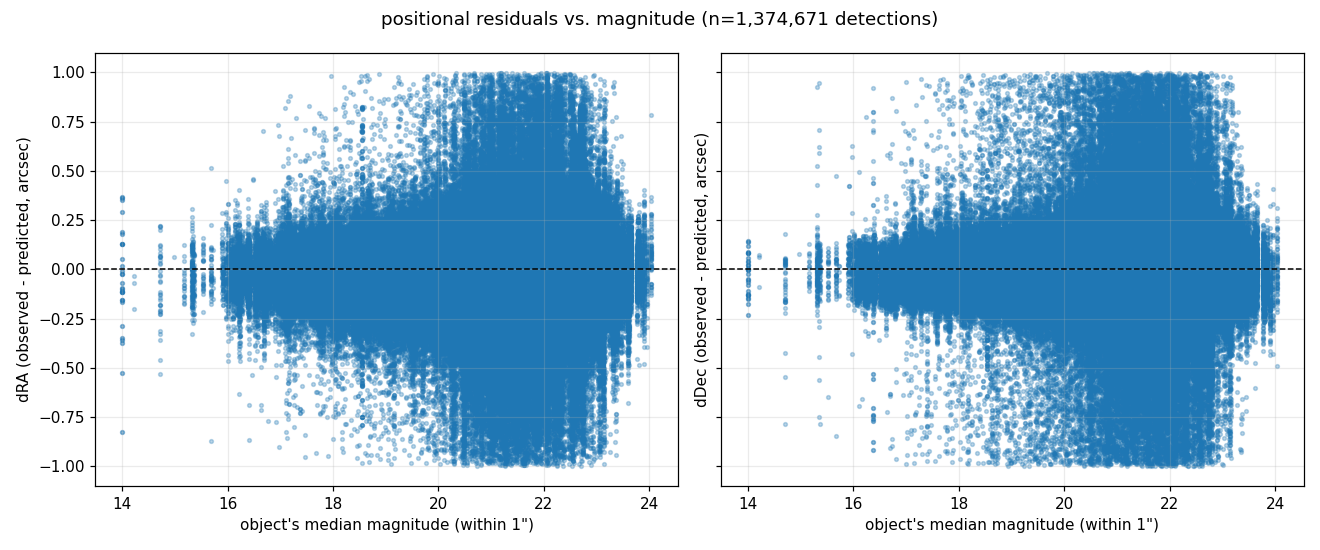
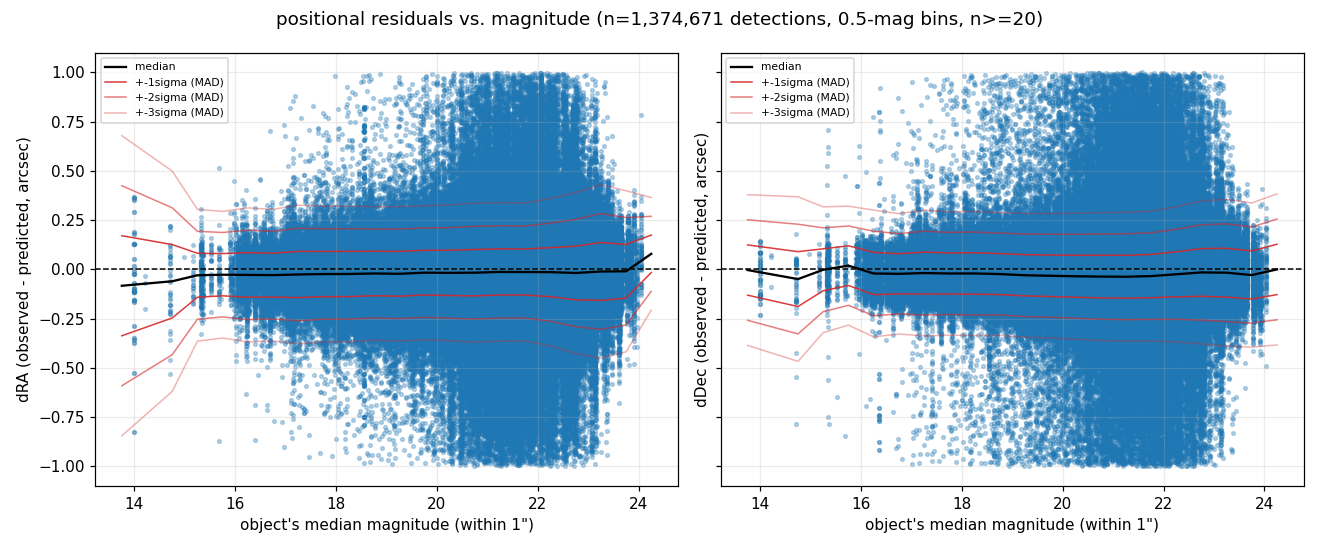
Overlay binned median and +-1/2/3 MAD-sigma on the residuals-vs-magnitude plot
Fixed-width (0.5 mag) bins over each object's own median magnitude, dropping
bins under 20 detections; per bin, the median and a robust sigma (MAD *
1.4826) of dRA/dDec. Adds crossmatch/uncertainty.bin_residuals_by_magnitude
and wires --bin-width/--min-n into `plot position-residuals-vs-mag`.

diff --git a/src/deep_asteroids/viz/plots.py b/src/deep_asteroids/viz/plots.py
@@ -206,22 +206,36 @@ def plot_position_residuals_hist(rows, path, range_arcsec=2.0, bin_width_arcsec=
     return _save(fig, path)
 
 
-def plot_position_residuals_vs_mag(rows, path, median_mag_by_object):
+def plot_position_residuals_vs_mag(rows, path, median_mag_by_object, bin_width=0.5, min_n=20):
     """``dra_arcsec``/``ddec_arcsec`` of every detection against its object's median magnitude
     (``median_mag_by_object``, from ``uncertainty.median_mag_by_object``); detections of an
-    object with no magnitude are left out (#46)."""
+    object with no magnitude are left out (#46). Overlaid with each magnitude bin's median and
+    +-1/2/3 robust sigma (``uncertainty.bin_residuals_by_magnitude``)."""
+    from deep_asteroids.crossmatch.uncertainty import bin_residuals_by_magnitude
+
     plt = _plt()
     pts = [(median_mag_by_object[r.known_tracklet_id], r.dra_arcsec, r.ddec_arcsec)
            for r in rows if r.known_tracklet_id in median_mag_by_object]
     if not pts:
         raise ValueError("no position residuals with a magnitude to plot")
     mag, dra, ddec = (np.array(v) for v in zip(*pts))
+    bins = bin_residuals_by_magnitude(rows, median_mag_by_object, bin_width, min_n)
+    centres = np.array([(b[0] + b[1]) / 2 for b in bins])
     fig, (ax_ra, ax_dec) = plt.subplots(1, 2, figsize=(12, 5), sharex=True, sharey=True)
-    for ax, values, label in ((ax_ra, dra, "dRA"), (ax_dec, ddec, "dDec")):
+    for ax, values, label, med_col, sigma_col in (
+            (ax_ra, dra, "dRA", 3, 4), (ax_dec, ddec, "dDec", 5, 6)):
         ax.scatter(mag, values, s=6, alpha=0.3, color="tab:blue")
         ax.axhline(0.0, color="k", ls="--", lw=1)
+        if len(bins):
+            median = np.array([b[med_col] for b in bins])
+            sigma = np.array([b[sigma_col] for b in bins])
+            ax.plot(centres, median, color="k", lw=1.5, label="median")
+            for k, alpha in ((1, 0.9), (2, 0.6), (3, 0.35)):
+                ax.plot(centres, median + k * sigma, color="tab:red", lw=1, alpha=alpha, label=f"+-{k}sigma (MAD)")
+                ax.plot(centres, median - k * sigma, color="tab:red", lw=1, alpha=alpha)
+            ax.legend(fontsize=7, loc="upper left")
         ax.set_xlabel("object's median magnitude (within 1\")")
         ax.set_ylabel(f"{label} (observed - predicted, arcsec)")
         ax.grid(alpha=0.25)
-    fig.suptitle(f"positional residuals vs. magnitude (n={len(pts):,} detections)")
+    fig.suptitle(f"positional residuals vs. magnitude (n={len(pts):,} detections, {bin_width:g}-mag bins, n>={min_n})")
     return _save(fig, path)

diff --git a/src/deep_asteroids/cli/plot.py b/src/deep_asteroids/cli/plot.py
@@ -188,6 +188,10 @@ def position_residuals_cmd(ctx, out, range_arcsec, bin_width_arcsec, match_radiu
 
 @plot.command("position-residuals-vs-mag")
 @click.option("--out", required=True, type=click.Path(dir_okay=False), help="PNG to write")
+@click.option("--bin-width", type=float, default=0.5, show_default=True,
+              help="Magnitude bin width for the overlaid median/sigma lines")
+@click.option("--min-n", type=int, default=20, show_default=True,
+              help="A magnitude bin needs at least this many detections to get a median/sigma line")
 @click.option("--match-radius-arcsec", type=float, default=2.0, show_default=True,
               help="A result is matched to a numbered known object below this mean separation")
 @click.option("--detection-radius-arcsec", type=float, default=1.0, show_default=True,
@@ -197,17 +201,19 @@ def position_residuals_cmd(ctx, out, range_arcsec, bin_width_arcsec, match_radiu
 @click.option("--band", "band", type=str, default=None,
               help="Only searches of this band (e.g. VR), or '' / none for the undefined-band (all-band, legacy) searches; default: every band")
 @click.pass_context
-def position_residuals_vs_mag(ctx, out, match_radius_arcsec, detection_radius_arcsec, nights, run_ids, band):
+def position_residuals_vs_mag(ctx, out, bin_width, min_n, match_radius_arcsec, detection_radius_arcsec, nights,
+                              run_ids, band):
     """dRA/dDec against each numbered known object's median magnitude (#46).
 
     The magnitude is the median of a result's own gathered photometry over its detections within
-    the detection radius; an object with no magnitude is left out. Needs the cross-match."""
+    the detection radius; an object with no magnitude is left out. Overlaid with each magnitude
+    bin's median and +-1/2/3 robust (MAD) sigma. Needs the cross-match."""
     from deep_asteroids.crossmatch.uncertainty import median_mag_by_object
     from deep_asteroids.viz.plots import plot_position_residuals_vs_mag
 
     rows = _position_residuals(nights, run_ids, band, match_radius_arcsec, detection_radius_arcsec)
     by_object = median_mag_by_object(rows)
-    click.echo(f"wrote {plot_position_residuals_vs_mag(rows, out, by_object)}")
+    click.echo(f"wrote {plot_position_residuals_vs_mag(rows, out, by_object, bin_width, min_n)}")
 
 
 @main.command("position-residuals-csv")

diff --git a/tests/test_uncertainty.py b/tests/test_uncertainty.py
@@ -5,6 +5,8 @@ from sqlalchemy.orm import Session
 
 from deep_asteroids.crossmatch.match import crossmatch_results
 from deep_asteroids.crossmatch.uncertainty import (
+    ResidualRow,
+    bin_residuals_by_magnitude,
     median_mag_by_object,
     position_residuals,
     write_residuals_csv,
@@ -88,3 +90,35 @@ def test_night_filter(session):
     _result, known = _setup(session, [0.1] * h.N_EXPOSURES)
     assert position_residuals(session, nights=[h.NIGHT + 1]) == []
     assert len(position_residuals(session, nights=[h.NIGHT])) == h.N_EXPOSURES
+
+
+def _row(kt_id, dra, ddec=0.0):
+    return ResidualRow(known_tracklet_id=kt_id, result_id=0, night=h.NIGHT, permid="1", time=0.0, mag=None,
+                       dra_arcsec=dra, ddec_arcsec=ddec)
+
+
+def test_bin_residuals_by_magnitude_bins_on_the_objects_own_median_mag():
+    # object 1 (mag 20): 25 detections with a mix of residuals -- median 0, MAD-sigma easy to hand-check
+    bright = [_row(1, d) for d in [-0.1] * 12 + [0.1] * 12 + [0.0]]
+    # object 2 (mag 22.5, same bin as a 0.5-wide bin starting at 22 would end at 22.5 -- place well inside the next bin)
+    faint = [_row(2, d) for d in [-1.0] * 10 + [1.0] * 10 + [0.0]]
+    rows = bright + faint
+    by_object = {1: 20.0, 2: 22.5}
+    bins = bin_residuals_by_magnitude(rows, by_object, bin_width=0.5, min_n=5)
+    by_lo = {round(b[0], 2): b for b in bins}
+    assert 20.0 in by_lo and 22.5 in by_lo
+    lo, hi, n, median, sigma, median_dd, sigma_dd = by_lo[20.0]
+    assert n == 25 and median == pytest.approx(0.0) and sigma == pytest.approx(0.1 * 1.4826)
+    assert median_dd == pytest.approx(0.0) and sigma_dd == pytest.approx(0.0)
+    *_, n2, median2, sigma2, _, _ = by_lo[22.5]
+    assert n2 == 21 and median2 == pytest.approx(0.0) and sigma2 == pytest.approx(1.0 * 1.4826)
+
+
+def test_bin_residuals_by_magnitude_drops_sparse_bins():
+    rows = [_row(1, 0.0) for _ in range(3)]
+    assert bin_residuals_by_magnitude(rows, {1: 20.0}, bin_width=0.5, min_n=5) == []
+
+
+def test_bin_residuals_by_magnitude_skips_objects_with_no_magnitude():
+    rows = [_row(1, 0.0)] * 10
+    assert bin_residuals_by_magnitude(rows, {}, bin_width=0.5, min_n=5) == []

diff --git a/src/deep_asteroids/crossmatch/uncertainty.py b/src/deep_asteroids/crossmatch/uncertainty.py
@@ -105,6 +105,38 @@ def median_mag_by_object(rows):
     return {kt_id: float(np.median(mags)) for kt_id, mags in by_object.items()}
 
 
+MAD_TO_SIGMA = 1.4826  # scales a Gaussian's MAD to its sigma
+
+
+def bin_residuals_by_magnitude(rows, median_mag_by_object, bin_width=0.5, min_n=20):
+    """Per-magnitude-bin robust stats of ``dra_arcsec``/``ddec_arcsec``, for ``plot_position_residuals_vs_mag``.
+
+    Fixed-width bins (``completeness.bin_completeness``'s own scheme) over each *object's* median
+    magnitude (``median_mag_by_object``; a detection's x-value is its object's, repeated) -- not the
+    per-detection one, since that is not what the plot's x-axis is. Within a bin, the median and a
+    robust sigma (MAD * 1.4826, resistant to the long tail the 1" detection radius still lets through)
+    of its detections' dRA/dDec; a bin with fewer than ``min_n`` detections is dropped rather than
+    plotted with a noisy estimate. Returns ``[(lo, hi, n, median_dra, sigma_dra, median_ddec, sigma_ddec)]``."""
+    pts = [(median_mag_by_object[r.known_tracklet_id], r.dra_arcsec, r.ddec_arcsec)
+           for r in rows if r.known_tracklet_id in median_mag_by_object]
+    if not pts:
+        return []
+    mag, dra, ddec = (np.array(v) for v in zip(*pts))
+    lo = np.floor(mag.min() / bin_width) * bin_width
+    hi = mag.max() + bin_width
+    out = []
+    for a in np.arange(lo, hi, bin_width):
+        sel = (mag >= a) & (mag < a + bin_width)
+        n = int(sel.sum())
+        if n >= min_n:
+            d, dd = dra[sel], ddec[sel]
+            med_d, med_dd = float(np.median(d)), float(np.median(dd))
+            sigma_d = float(np.median(np.abs(d - med_d))) * MAD_TO_SIGMA
+            sigma_dd = float(np.median(np.abs(dd - med_dd))) * MAD_TO_SIGMA
+            out.append((float(a), float(a + bin_width), n, med_d, sigma_d, med_dd, sigma_dd))
+    return out
+
+
 def write_residuals_csv(rows, out):
     """Writes ``rows`` (``position_residuals``'s own return) to ``out`` as a CSV, one row per
     detection; returns ``out``."""

diff --git a/docs/results/README.md b/docs/results/README.md
@@ -105,9 +105,11 @@ as a diagnostic; it is no longer the cut.
   the known-object fits all agree at the ~0.1-0.2" level.
 - **`position_residuals_vs_mag.png`** -- the same per-detection dRA/dDec
   against the object's own median magnitude (over its detections within
-  1"): the scatter widens steadily fainter than ~mag 18, as expected
-  for shot-noise-limited centroiding, and stays essentially flat and
-  tight (well under 0.25") brightward of it.
+  1"), with each 0.5-mag bin's median and +-1/2/3 robust (MAD) sigma
+  overlaid (bins under 20 detections dropped): the scatter widens
+  steadily fainter than ~mag 18, as expected for shot-noise-limited
+  centroiding, and stays essentially flat and tight (well under 0.25")
+  brightward of it.
 
 Produced from `/gscratch/dirac/stevengs/claude/deep_asteroids_full_survey.sqlite`
 via `deep-asteroids plot sigma-v/residuals/magnitudes/completeness/position-residuals/position-residuals-vs-mag --band VR` and
